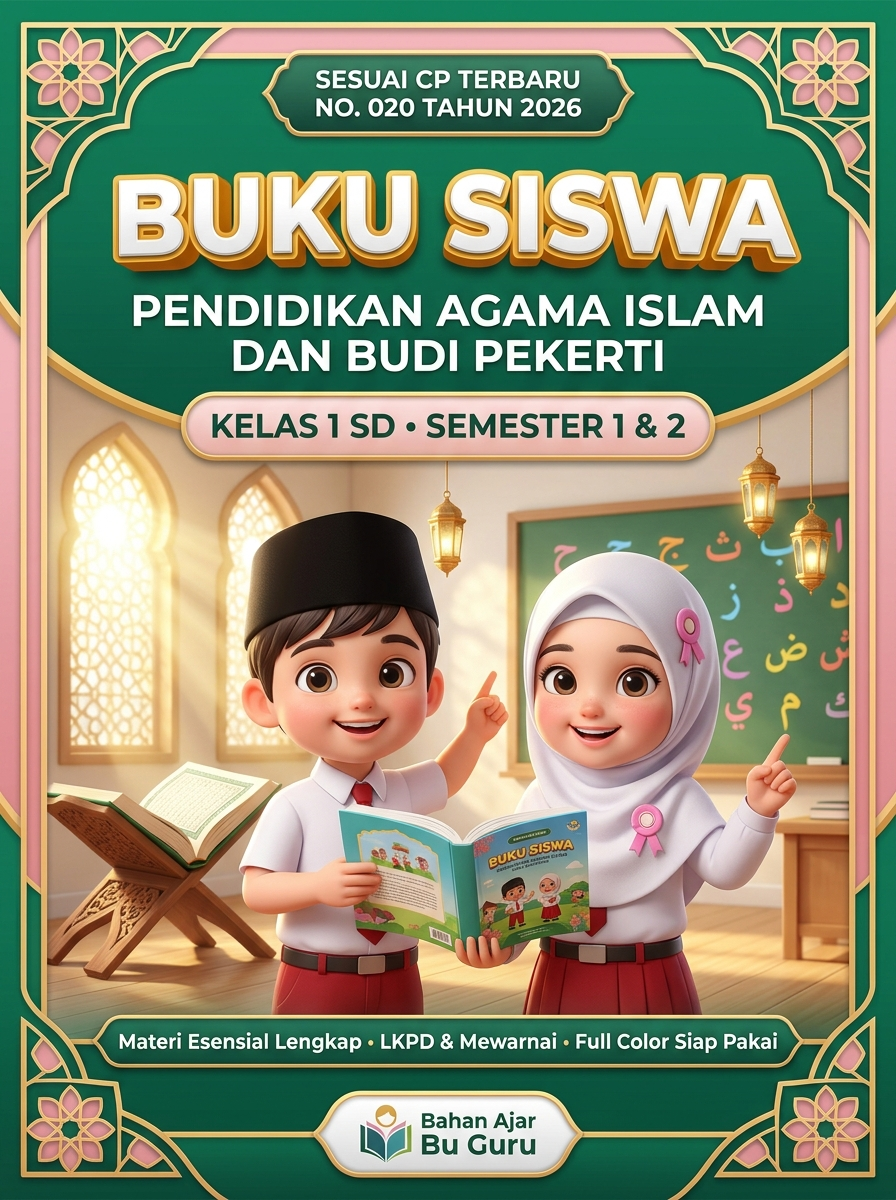
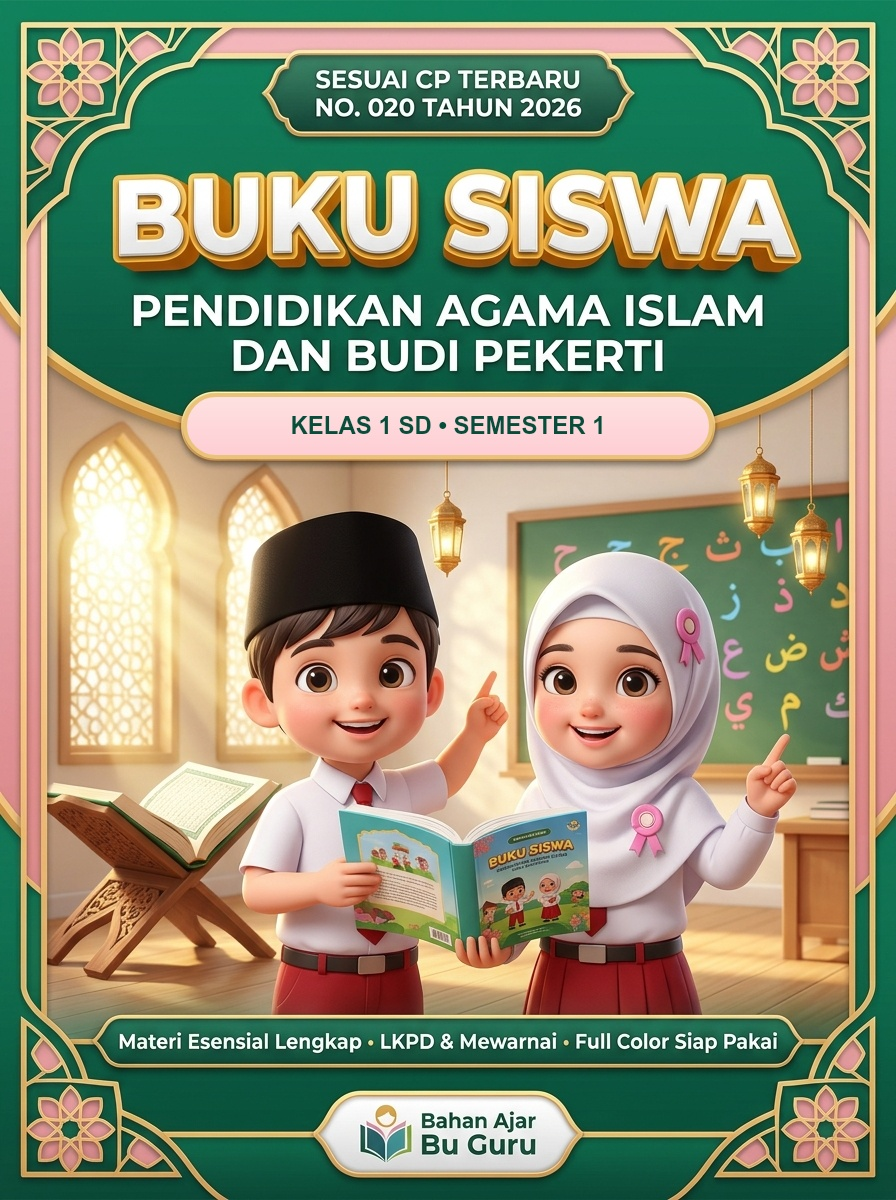
Update cover badges to per-semester (Semester 1 & 2) for Kelas 1-6 SD

Changed region(s): [[0.1875, 0.3083, 0.8125, 0.4008]]

diff --git a/server.js b/server.js
@@ -300,8 +300,10 @@ async function callOpenAICompatible(prompt, endpoint, apiKey, model) {
 }
 
 // Grade Theming: Specific colors, badges, and cover artwork per grade
-function getGradeTheme(grade) {
+// Grade Theming: Specific colors, badges, and cover artwork per grade and semester
+function getGradeTheme(grade, semester = 1) {
   const g = parseInt(grade) || 1;
+  const sem = parseInt(semester) === 2 ? 2 : 1;
   const themes = {
     1: {
       fase: "FASE A",
@@ -310,8 +312,8 @@ function getGradeTheme(grade) {
       accent: "#b45309",
       titleColor: "#064e3b",
       badgeBg: "#059669",
-      coverImg: "/assets/cover_penjualan_buku_kelas1.jpg",
-      coverTag: "Mengenal Dasar Keislaman & Budi Pekerti"
+      coverImg: sem === 2 ? "/assets/cover_penjualan_buku_kelas1_sem2.jpg" : "/assets/cover_penjualan_buku_kelas1.jpg",
+      coverTag: sem === 2 ? "Semester 2: Penguatan Ibadah & Keteladanan" : "Mengenal Dasar Keislaman & Budi Pekerti"
     },
     2: {
       fase: "FASE A",
@@ -320,8 +322,8 @@ function getGradeTheme(grade) {
       accent: "#0369a1",
       titleColor: "#0c4a6e",
       badgeBg: "#0284c7",
-      coverImg: "/assets/cover_penjualan_buku_kelas2.jpg",
-      coverTag: "Belajar Huruf Bersambung & Ketaatan Ibadah"
+      coverImg: sem === 2 ? "/assets/cover_penjualan_buku_kelas2_sem2.jpg" : "/assets/cover_penjualan_buku_kelas2.jpg",
+      coverTag: sem === 2 ? "Semester 2: Penguatan Akhlak & Kisah Teladan" : "Belajar Huruf Bersambung & Ketaatan Ibadah"
     },
     3: {
       fase: "FASE B",
@@ -330,8 +332,8 @@ function getGradeTheme(grade) {
       accent: "#6d28d9",
       titleColor: "#4c1d95",
       badgeBg: "#7c3aed",
-      coverImg: "/assets/cover_penjualan_buku_kelas3.jpg",
-      coverTag: "Mendalami Shalat, Zikir, & Sifat Terpuji"
+      coverImg: sem === 2 ? "/assets/cover_penjualan_buku_kelas3_sem2.jpg" : "/assets/cover_penjualan_buku_kelas3.jpg",
+      coverTag: sem === 2 ? "Semester 2: Penguatan Keimanan & Shalat Berjamaah" : "Mendalami Shalat, Zikir, & Sifat Terpuji"
     },
     4: {
       fase: "FASE B",
@@ -340,8 +342,8 @@ function getGradeTheme(grade) {
       accent: "#c2410c",
       titleColor: "#7c2d12",
       badgeBg: "#ea580c",
-      coverImg: "/assets/cover_penjualan_buku_kelas4.jpg",
-      coverTag: "Memahami Tanda Baligh & Akhlak Mulia"
+      coverImg: sem === 2 ? "/assets/cover_penjualan_buku_kelas4_sem2.jpg" : "/assets/cover_penjualan_buku_kelas4.jpg",
+      coverTag: sem === 2 ? "Semester 2: Keragaman & Kisah Hijrah Nabi" : "Memahami Tanda Baligh & Akhlak Mulia"
     },
     5: {
       fase: "FASE C",
@@ -350,8 +352,8 @@ function getGradeTheme(grade) {
       accent: "#15803d",
       titleColor: "#14532d",
       badgeBg: "#16a34a",
-      coverImg: "/assets/cover_penjualan_buku_kelas5.jpg",
-      coverTag: "Menerapkan Toleransi, Zakat, & Ukhuwah"
+      coverImg: sem === 2 ? "/assets/cover_penjualan_buku_kelas5_sem2.jpg" : "/assets/cover_penjualan_buku_kelas5.jpg",
+      coverTag: sem === 2 ? "Semester 2: Ibadah Haji, Kurban, & Kebersamaan" : "Menerapkan Toleransi, Zakat, & Ukhuwah"
     },
     6: {
       fase: "FASE C",
@@ -360,8 +362,8 @@ function getGradeTheme(grade) {
       accent: "#be185d",
       titleColor: "#831843",
       badgeBg: "#db2777",
-      coverImg: "/assets/cover_penjualan_buku_kelas6.jpg",
-      coverTag: "Memantapkan Iman Hari Akhir & Kepemimpinan"
+      coverImg: sem === 2 ? "/assets/cover_penjualan_buku_kelas6_sem2.jpg" : "/assets/cover_penjualan_buku_kelas6.jpg",
+      coverTag: sem === 2 ? "Semester 2: Muamalah Halal & Keteladanan Sahabat" : "Memantapkan Iman Hari Akhir & Kepemimpinan"
     }
   };
   return themes[g] || themes[1];
@@ -542,7 +544,7 @@ function getSmartChapterImage(title, content, index, usedImages = new Set()) {
 
 // Template Builder: Convert JSON into Printable A4 HTML with Balanced Two-Spread Layout
 async function renderBookHtml(bookData, apiKey) {
-  const gradeTheme = getGradeTheme(bookData.grade);
+  const gradeTheme = getGradeTheme(bookData.grade, bookData.semester);
 
   const colors = [
     { badge: '#10b981', gradient: 'linear-gradient(135deg, #059669, #10b981)', border: '#34d399' },
@@ -1205,7 +1207,7 @@ Struktur JSON yang HARUS dikembalikan:
 // Template Builder for 8-Page Modul Ajar Deep Learning
 async function renderModulAjarHtml(modulData) {
   const g = parseInt(modulData.grade) || 1;
-  const gradeTheme = getGradeTheme(g);
+  const gradeTheme = getGradeTheme(g, modulData.semester);
   const coverImg = modulData.coverImage || getSmartChapterImage(
     `${modulData.chapterTitle || ''} ${modulData.theme || ''}`,
     `${modulData.materi?.paragraf1 || ''} ${modulData.materi?.subMateriA?.content || ''} ${modulData.subject || ''}`,

diff --git a/update_covers_node.js b/update_covers_node.js
@@ -1,0 +1,120 @@
+const fs = require('fs');
+const path = require('path');
+const { createCanvas, loadImage } = require('@napi-rs/canvas');
+
+async function processCover(grade, semester) {
+  const srcPath = path.join(__dirname, `assets/cover_penjualan_buku_kelas${grade}.jpg`);
+  const img = await loadImage(srcPath);
+
+  const canvas = createCanvas(img.width, img.height);
+  const ctx = canvas.getContext('2d');
+
+  // Draw background image
+  ctx.drawImage(img, 0, 0);
+
+  // Helper for rounded pill
+  function drawPill(x, y, w, h, r, fillStyle, strokeStyle, strokeWidth) {
+    ctx.save();
+    ctx.beginPath();
+    ctx.roundRect(x, y, w, h, r);
+    ctx.fillStyle = fillStyle;
+    ctx.fill();
+    if (strokeStyle) {
+      ctx.lineWidth = strokeWidth || 4;
+      ctx.strokeStyle = strokeStyle;
+      ctx.stroke();
+    }
+    ctx.restore();
+  }
+
+  // Helper for text with optional shadow
+  function drawPillText(text, x, y, font, color, shadow = false) {
+    ctx.save();
+    ctx.font = font;
+    ctx.textAlign = 'center';
+    ctx.textBaseline = 'middle';
+    if (shadow) {
+      ctx.shadowColor = 'rgba(0, 0, 0, 0.45)';
+      ctx.shadowOffsetY = 2;
+      ctx.shadowBlur = 3;
+    }
+    ctx.fillStyle = color;
+    ctx.fillText(text, x, y);
+    ctx.restore();
+  }
+
+  const semText = `SEMESTER ${semester}`;
+
+  if (grade === 1) {
+    const x = 185, y = 395, w = 526, h = 62, r = 31;
+    const grad = ctx.createLinearGradient(0, y, 0, y + h);
+    grad.addColorStop(0, '#fee2e2');
+    grad.addColorStop(1, '#fecdd3');
+    drawPill(x, y, w, h, r, grad, '#ebc378', 4);
+    drawPillText(`KELAS 1 SD • ${semText}`, x + w / 2, y + h / 2, 'bold 24px Arial', '#064e3b');
+  } else if (grade === 2) {
+    const x = 206, y = 435, w = 484, h = 58, r = 29;
+    const grad = ctx.createLinearGradient(x, 0, x + w, 0);
+    grad.addColorStop(0, '#009bb4');
+    grad.addColorStop(1, '#d72d69');
+    drawPill(x, y, w, h, r, grad, '#ebc378', 4);
+    drawPillText(`KELAS 2 SD • ${semText}`, x + w / 2, y + h / 2, 'bold 23px Arial', '#ffffff', true);
+  } else if (grade === 3) {
+    const x = 190, y = 390, w = 516, h = 56, r = 28;
+    const grad = ctx.createLinearGradient(0, y, 0, y + h);
+    grad.addColorStop(0, '#784ba5');
+    grad.addColorStop(1, '#411e69');
+    drawPill(x, y, w, h, r, grad, '#ebc378', 4);
+    drawPillText(`KELAS 3 SD • ${semText}`, x + w / 2, y + h / 2, 'bold 23px Arial', '#ffffff', true);
+  } else if (grade === 4) {
+    // Circle badge on left: center (136, 475), radius 84
+    ctx.save();
+    ctx.beginPath();
+    ctx.arc(136, 475, 84, 0, Math.PI * 2);
+    ctx.clip();
+
+    const grad = ctx.createLinearGradient(0, 502, 0, 542);
+    grad.addColorStop(0, '#d76014');
+    grad.addColorStop(1, '#aa4108');
+    ctx.fillStyle = grad;
+    ctx.fillRect(45, 502, 185, 40);
+
+    drawPillText(`• ${semText}`, 136, 520, 'bold 15px Arial', '#ffffff', true);
+    ctx.restore();
+  } else if (grade === 5) {
+    const x = 195, y = 360, w = 506, h = 60, r = 30;
+    const grad = ctx.createLinearGradient(0, y, 0, y + h);
+    grad.addColorStop(0, '#0d9488');
+    grad.addColorStop(1, '#064e4b');
+    drawPill(x, y, w, h, r, grad, '#ebc378', 4);
+    drawPillText(`KELAS 5 SD • ${semText}`, x + w / 2, y + h / 2, 'bold 23px Arial', '#fef3c7', true);
+  } else if (grade === 6) {
+    const x = 206, y = 376, w = 484, h = 52, r = 26;
+    const grad = ctx.createLinearGradient(0, y, 0, y + h);
+    grad.addColorStop(0, '#fef08a');
+    grad.addColorStop(1, '#eab308');
+    drawPill(x, y, w, h, r, grad, '#ffeb96', 4);
+    drawPillText(`KELAS 6 SD • ${semText}`, x + w / 2, y + h / 2, 'bold 23px Arial', '#2b0b02');
+  }
+
+  // Save to buffer
+  const buf = canvas.toBuffer('image/jpeg', 95);
+
+  if (semester === 1) {
+    fs.writeFileSync(path.join(__dirname, `assets/cover_penjualan_buku_kelas${grade}.jpg`), buf);
+    fs.writeFileSync(path.join(__dirname, `assets/cover_penjualan_buku_kelas${grade}_sem1.jpg`), buf);
+  } else {
+    fs.writeFileSync(path.join(__dirname, `assets/cover_penjualan_buku_kelas${grade}_sem2.jpg`), buf);
+  }
+  console.log(`Successfully generated Grade ${grade} Semester ${semester}`);
+}
+
+async function run() {
+  for (let g = 1; g <= 6; g++) {
+    await processCover(g, 1);
+    await processCover(g, 2);
+  }
+  console.log('All 6 grades processed for both Semester 1 and Semester 2!');
+}
+
+run().catch(console.error);
